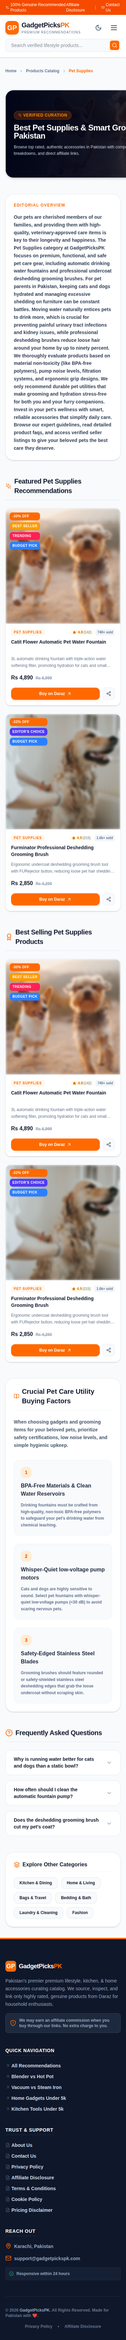
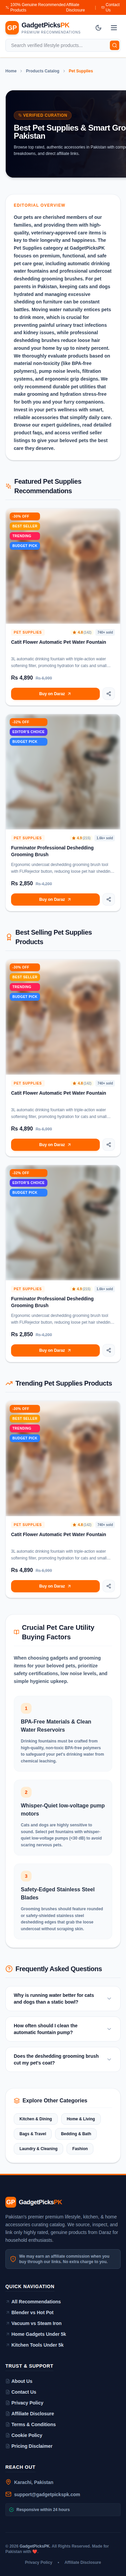
Implement Phase 2A - Kitchen and Dining Category premium page with optimized headings, semantic structure, schemas and trending products section

diff --git a/src/pages/CategoryDetail.jsx b/src/pages/CategoryDetail.jsx
@@ -59,6 +59,12 @@ export default function CategoryDetail() {
     return list.length > 0 ? list : categoryProducts;
   }, [categoryProducts]);
 
+  // Query Trending Products
+  const trendingProducts = useMemo(() => {
+    const list = categoryProducts.filter(p => p.isTrending || p.badges?.some(b => b.toLowerCase() === 'trending'));
+    return list.length > 0 ? list : categoryProducts;
+  }, [categoryProducts]);
+
   // Get Related Categories
   const relatedCategories = useMemo(() => {
     return categoriesData.filter((cat) => cat.slug !== categorySlug);
@@ -117,16 +123,16 @@ export default function CategoryDetail() {
   }
 
   return (
-    <div className="bg-slate-50 dark:bg-slate-950 min-h-screen py-8 transition-colors duration-300">
+    <main className="bg-slate-50 dark:bg-slate-950 min-h-screen py-8 transition-colors duration-300">
       <div className="max-w-7xl mx-auto px-4 sm:px-6 lg:px-8 space-y-12 animate-fadeIn">
 
         {/* Breadcrumb Navigation */}
-        <nav className="flex flex-wrap items-center gap-2 text-xs font-bold text-slate-500 dark:text-slate-400">
+        <nav className="flex flex-wrap items-center gap-2 text-xs font-bold text-slate-500 dark:text-slate-400" aria-label="Breadcrumb">
           <Link to="/" className="hover:text-orange-500 transition-colors">Home</Link>
           <ChevronRight size={12} />
           <Link to="/products" className="hover:text-orange-500 transition-colors">Products Catalog</Link>
           <ChevronRight size={12} />
-          <span className="text-orange-500 font-extrabold">{categoryMeta.name}</span>
+          <span className="text-orange-500 font-extrabold" aria-current="page">{categoryMeta.name}</span>
         </nav>
 
         {/* Hero Banner Section */}
@@ -194,6 +200,23 @@ export default function CategoryDetail() {
             </div>
             <div className="grid grid-cols-1 sm:grid-cols-2 lg:grid-cols-3 gap-6">
               {bestSellingProducts.map((product) => (
+                <ProductCard key={product.id} product={product} />
+              ))}
+            </div>
+          </section>
+        )}
+
+        {/* Trending Products Section */}
+        {trendingProducts.length > 0 && (
+          <section className="space-y-6">
+            <div className="border-b border-slate-200 dark:border-slate-800 pb-3 flex items-center gap-2">
+              <TrendingUp className="text-orange-500" size={22} />
+              <h2 className="text-xl sm:text-2xl font-black text-slate-900 dark:text-white tracking-tight">
+                Trending {categoryMeta.name} Products
+              </h2>
+            </div>
+            <div className="grid grid-cols-1 sm:grid-cols-2 lg:grid-cols-3 gap-6">
+              {trendingProducts.map((product) => (
                 <ProductCard key={product.id} product={product} />
               ))}
             </div>
@@ -275,9 +298,9 @@ export default function CategoryDetail() {
           <section className="bg-white dark:bg-slate-900 rounded-3xl border border-slate-200/60 dark:border-slate-800 p-6 sm:p-8 shadow-sm transition-colors duration-300 space-y-4">
             <div className="border-b border-slate-100 dark:border-slate-800 pb-2 flex items-center gap-2">
               <Layers size={18} className="text-orange-500" />
-              <h3 className="font-extrabold text-slate-900 dark:text-white text-base">
+              <h2 className="font-extrabold text-slate-900 dark:text-white text-base">
                 Explore Other Categories
-              </h3>
+              </h2>
             </div>
             <div className="flex flex-wrap gap-2.5">
               {relatedCategories.map((cat, idx) => (
@@ -294,6 +317,6 @@ export default function CategoryDetail() {
         )}
 
       </div>
-    </div>
+    </main>
   );
 }
